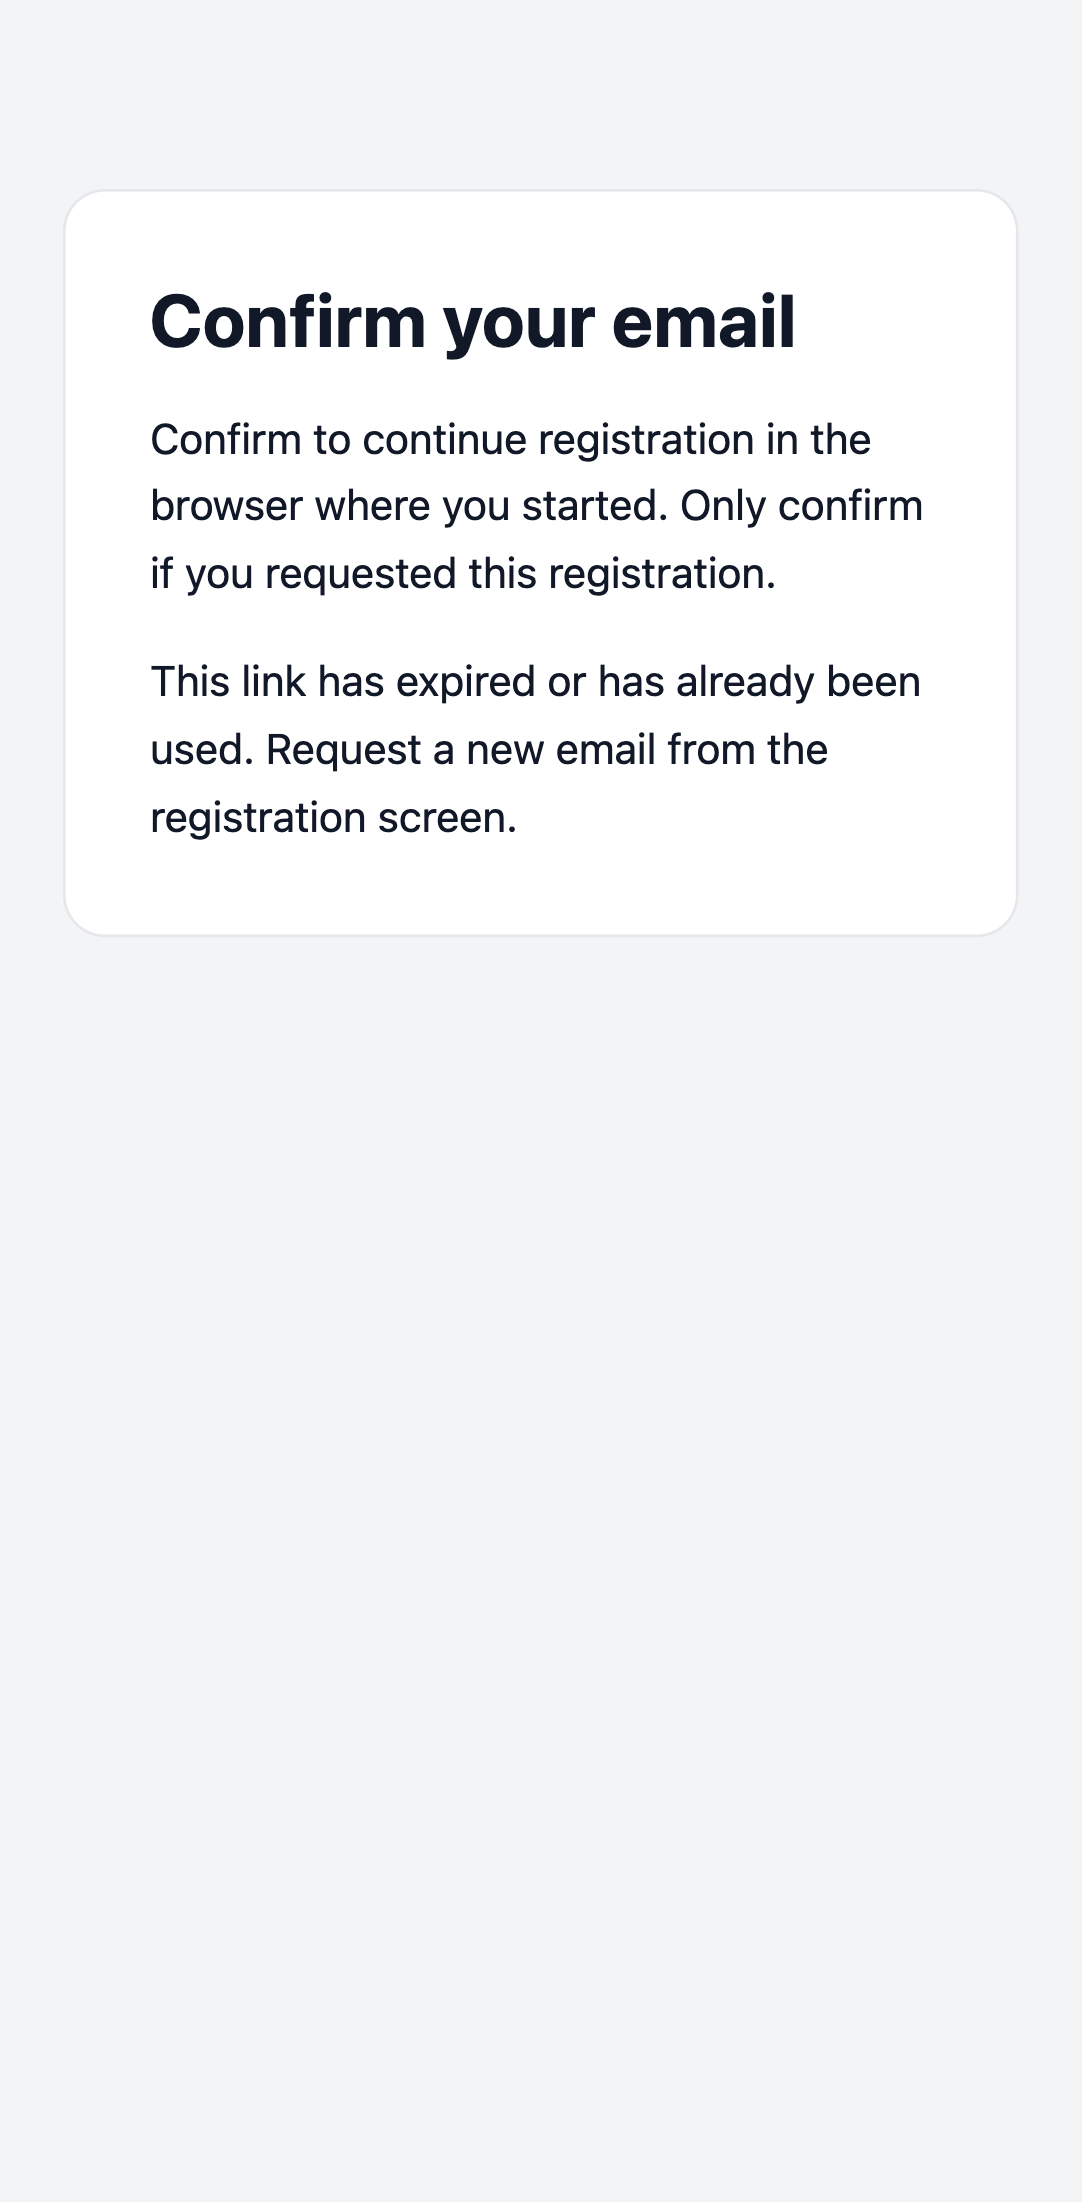
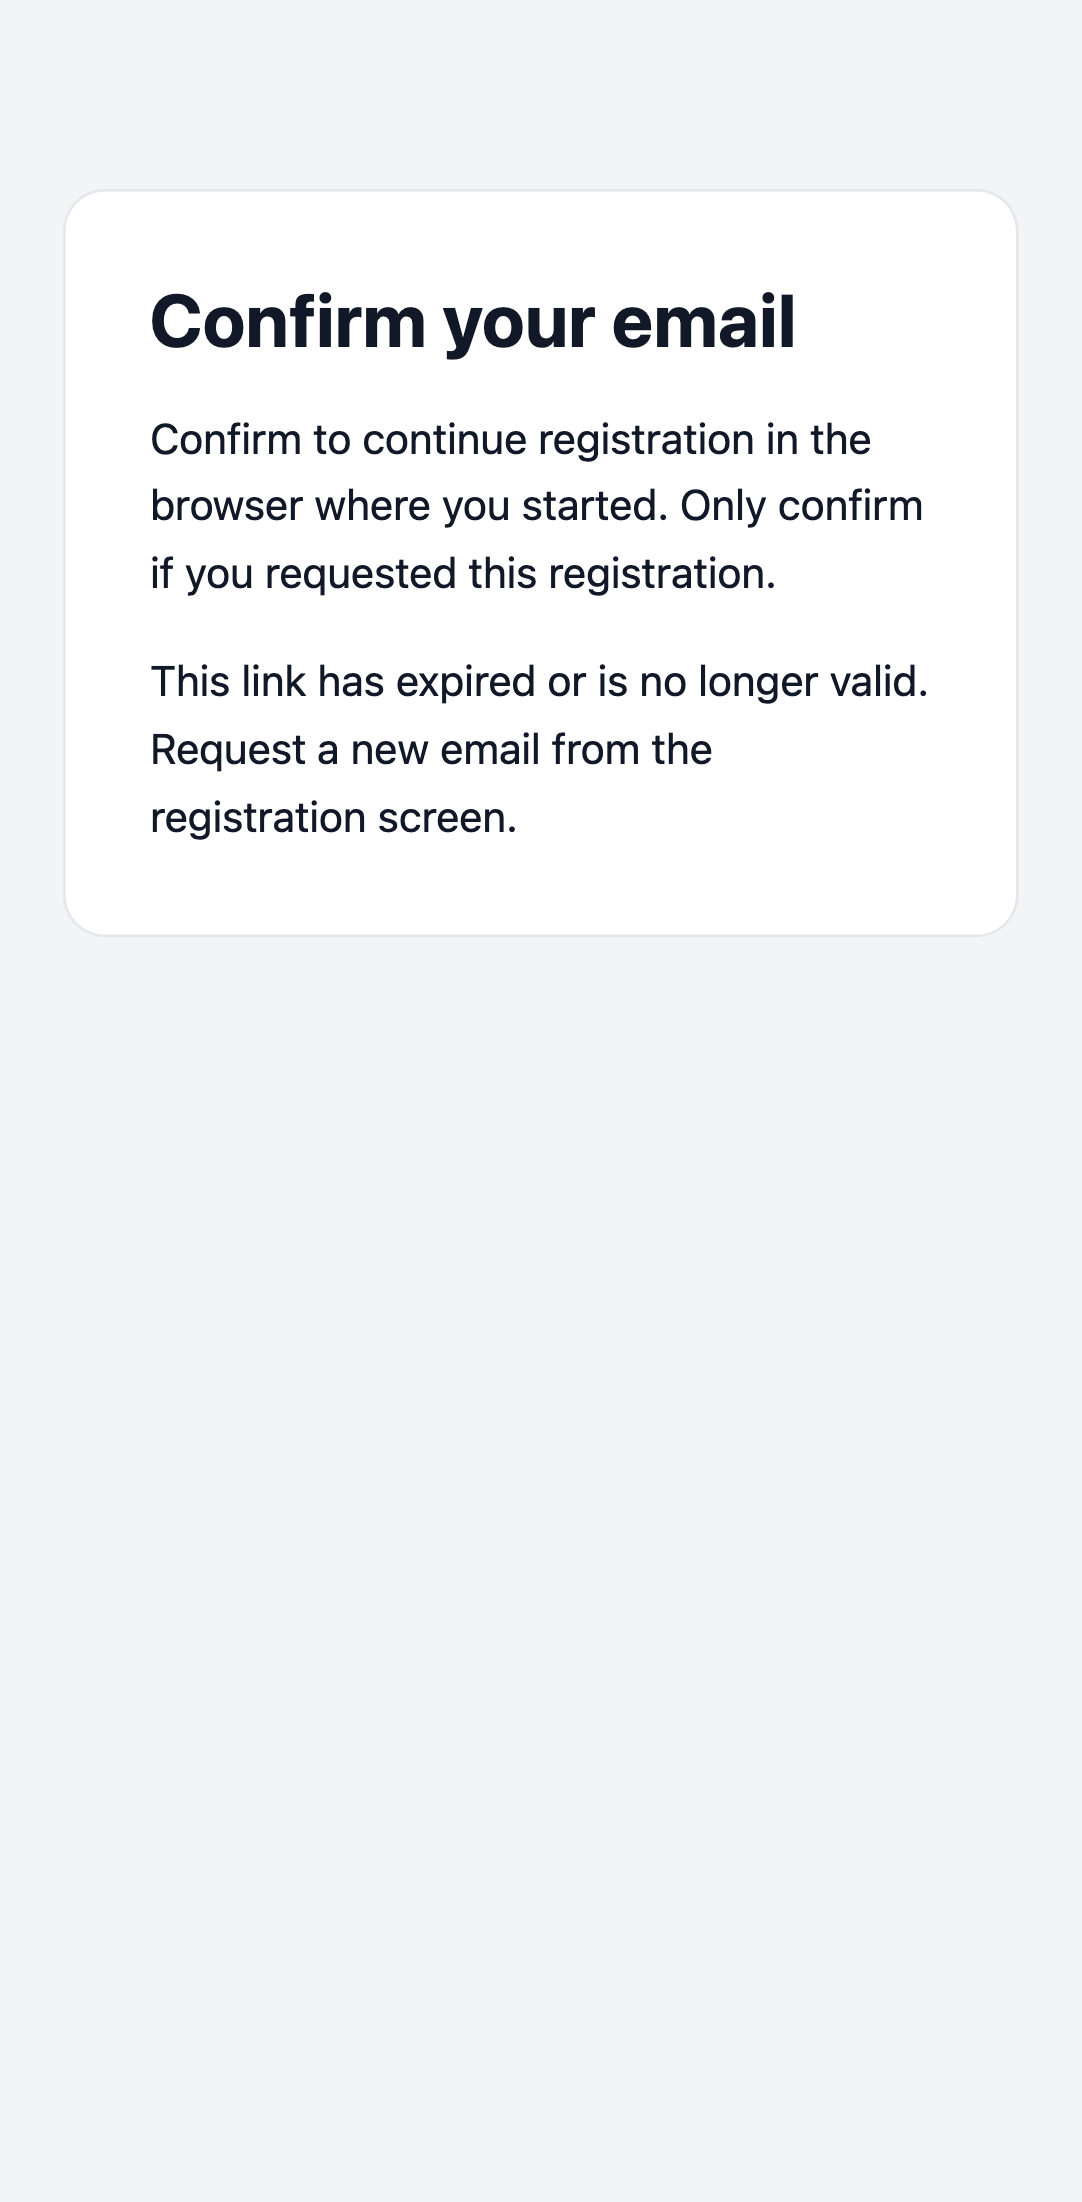
Address review notes on the registration recovery screens
Replaying an already-used link stays idempotent (200, success), so the
rejected-link copy now says expired or no longer valid. The expired-state
resend button stays disabled while a code check is in flight, and the
success-gap assertion also rejects overlapping text.

Changed region(s): [[0.1525, 0.3088, 0.854, 0.3706]]

diff --git a/Admin/e2e/registration.flow.ts b/Admin/e2e/registration.flow.ts
@@ -218,7 +218,7 @@ test('a rejected link shows its error without signing in or redirecting', async 
   await expect(verify).toBeEnabled();
   postStatus = 400;
   await verify.click();
-  await expect(page.getByRole('status')).toContainText('This link has expired or has already been used');
+  await expect(page.getByRole('status')).toContainText('This link has expired or is no longer valid');
   await expect(page.getByRole('status')).not.toContainText('Try again');
   await expect(verify).toHaveCount(0);
   await page.screenshot({ path: info.outputPath('link-error.png'), fullPage: true });
@@ -289,7 +289,9 @@ test('another-device link displays success without navigation or authentication'
   const bodyBox = await page.getByText('Your email address is confirmed.', { exact: true }).boundingBox();
   const statusBox = await page.getByRole('status').boundingBox();
   if (!bodyBox || !statusBox) throw new Error('Success text is not rendered');
-  expect(statusBox.y - (bodyBox.y + bodyBox.height)).toBeLessThanOrEqual(20);
+  const gap = statusBox.y - (bodyBox.y + bodyBox.height);
+  expect(gap).toBeGreaterThanOrEqual(0);
+  expect(gap).toBeLessThanOrEqual(20);
   expect(await page.context().cookies()).toHaveLength(0);
   await page.screenshot({ path: info.outputPath('cross-device-success.png'), fullPage: true });
 });

diff --git a/API/src/services/registration-link-page.service.ts b/API/src/services/registration-link-page.service.ts
@@ -8,8 +8,9 @@ export function renderRegistrationLinkPage(nonce: string): string {
     primaryAction: { id: 'verify', label: 'Verify email address' },
     statusId: 'result',
   });
-  // A rejected link (expired, used or malformed) can never succeed on retry, so only a
-  // transport or server failure keeps the button; every final outcome removes it.
+  // A rejected link (expired, exhausted or malformed) can never succeed on retry, so only a
+  // transport or server failure keeps the button; every final outcome removes it. Replaying
+  // an already-used link stays idempotent: the API answers 200 and the page shows success.
   const script = `<script nonce="${nonce}">
 (() => {
   let token = location.hash.slice(1);
@@ -41,7 +42,7 @@ export function renderRegistrationLinkPage(nonce: string): string {
     } else if (response.status === 429 || response.status >= 500) {
       retry('We could not verify this link right now. Try again in a moment.');
     } else {
-      finish('This link has expired or has already been used. Request a new email from the registration screen.');
+      finish('This link has expired or is no longer valid. Request a new email from the registration screen.');
     }
   });
 })();

diff --git a/Auth/src/pages/RegistrationVerificationPage.tsx b/Auth/src/pages/RegistrationVerificationPage.tsx
@@ -79,7 +79,7 @@ export function RegistrationVerificationPage(): React.JSX.Element {
         // The sent-code instructions no longer apply, so a new email is the only way on.
         <>
           <p role="status" className="mt-3 text-sm text-[var(--uoa-color-text)]">{t('registration.expired')}</p>
-          <Button type="button" className="mt-6" disabled={resending} onClick={() => { void resend(); }}>{resendLabel}</Button>
+          <Button type="button" className="mt-6" disabled={loading || resending} onClick={() => { void resend(); }}>{resendLabel}</Button>
         </>
       ) : (
         <>

diff --git a/Docs/Reviews/registration-recovery-2026-10-23/README.md b/Docs/Reviews/registration-recovery-2026-10-23/README.md
@@ -6,7 +6,7 @@ way forward.
 
 | State | Before | After |
 | --- | --- | --- |
-| Expired or used email link | Kept the **Verify email address** button and said "Try again" — a rejected link can never succeed on retry | Says the link has expired or was already used and removes the button. Only a network failure, 429 or 5xx keeps the button and asks to try again |
+| Rejected email link (expired, exhausted or malformed) | Kept the **Verify email address** button and said "Try again" — a rejected link can never succeed on retry | Says the link has expired or is no longer valid and removes the button. Only a network failure, 429 or 5xx keeps the button and asks to try again. Replaying an already-used link is unchanged: the API stays idempotent (200) and the page shows success |
 | Link without its secret | Same message, but the button stayed and did nothing new | Same message, button removed |
 | Confirmation success | The result line sat inside the removed button's row, leaving a large gap under the body text | The page template has an optional status region below the actions; success shows heading, body and the continuation sentence without the gap |
 | Pending registration expired (code screen) | Kept "We've sent a link and code… open the link or enter the code below" above the expiry message; the only way on was a small text link | Shows the expiry message and a primary **Request a new email** button |
